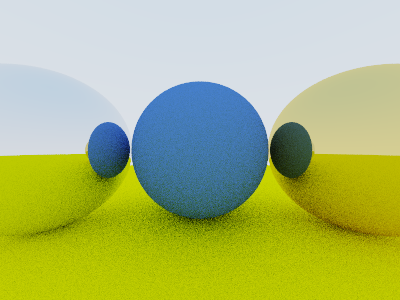
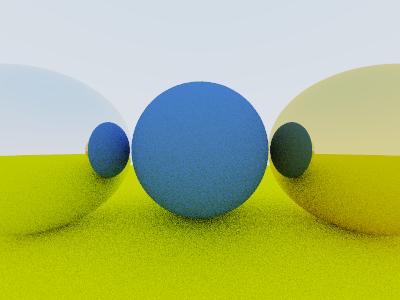
Remove RayColor recursion

Changed region(s): [[0.09, 0.42, 0.99, 0.84]]

diff --git a/src/Scene/Camera.cpp b/src/Scene/Camera.cpp
@@ -78,29 +78,35 @@ Ray Camera::GetRay(usize i, usize j)
     return Ray(m_Center, pixelSample - m_Center);
 }
 
-glm::vec3 Camera::RayColor(const Ray& ray, usize depth)
+glm::vec3 Camera::RayColor(Ray ray, usize depth)
 {
-    if (depth <= 0) {
-        return glm::vec3(0.0f);
-    }
+    glm::vec3 accumulated(1.0f);
+    glm::vec3 color(0.0f);
 
-    HitRecord record;
-    if (m_Scene->Hit(ray, m_Clip, record)) {
-        glm::vec3 attenuation;
-        Ray scattered;
+    for (usize i = 0; i < depth; ++i) {
+        HitRecord record;
 
-        bool scatter = std::visit([&](const auto& mat) -> bool {
-            return mat.Scatter(ray, record, attenuation, scattered);
-        }, m_Scene->GetMaterial(record.material));
+        if (m_Scene->Hit(ray, m_Clip, record)) {
+            glm::vec3 attenuation;
+            Ray scattered;
 
-        if (scatter) {
-            return attenuation * RayColor(scattered, depth - 1);
+            bool scatter = std::visit([&](const auto& mat) -> bool {
+                return mat.Scatter(ray, record, attenuation, scattered);
+            }, m_Scene->GetMaterial(record.material));
+
+            if (scatter) {
+                accumulated *= attenuation;
+                ray = scattered;
+            } else {
+                return glm::vec3(0.0f);
+            }
+        } else {
+            f32 a = 0.5f * (glm::normalize(ray.direction).y + 1.0f);
+            glm::vec3 sky = glm::mix(glm::vec3(1.0f), glm::vec3(0.5f, 0.7f, 1.0f), a);
+
+            return accumulated * sky;
         }
-
-        return glm::vec3(0.0f);
     }
 
-    // Skybox
-	f32 a = 0.5f * (glm::normalize(ray.direction).y + 1.0f);
-	return glm::mix(glm::vec3(1.0f), glm::vec3(0.5f, 0.7f, 1.0f), a);
+    return glm::vec3(0.0f);
 }

diff --git a/src/Scene/Camera.hpp b/src/Scene/Camera.hpp
@@ -17,7 +17,7 @@ public:
 
 private:
     Ray GetRay(usize i, usize j);
-    glm::vec3 RayColor(const Ray& ray, usize depth);
+    glm::vec3 RayColor(Ray ray, usize depth);
 
 private:
     usize m_Width;
